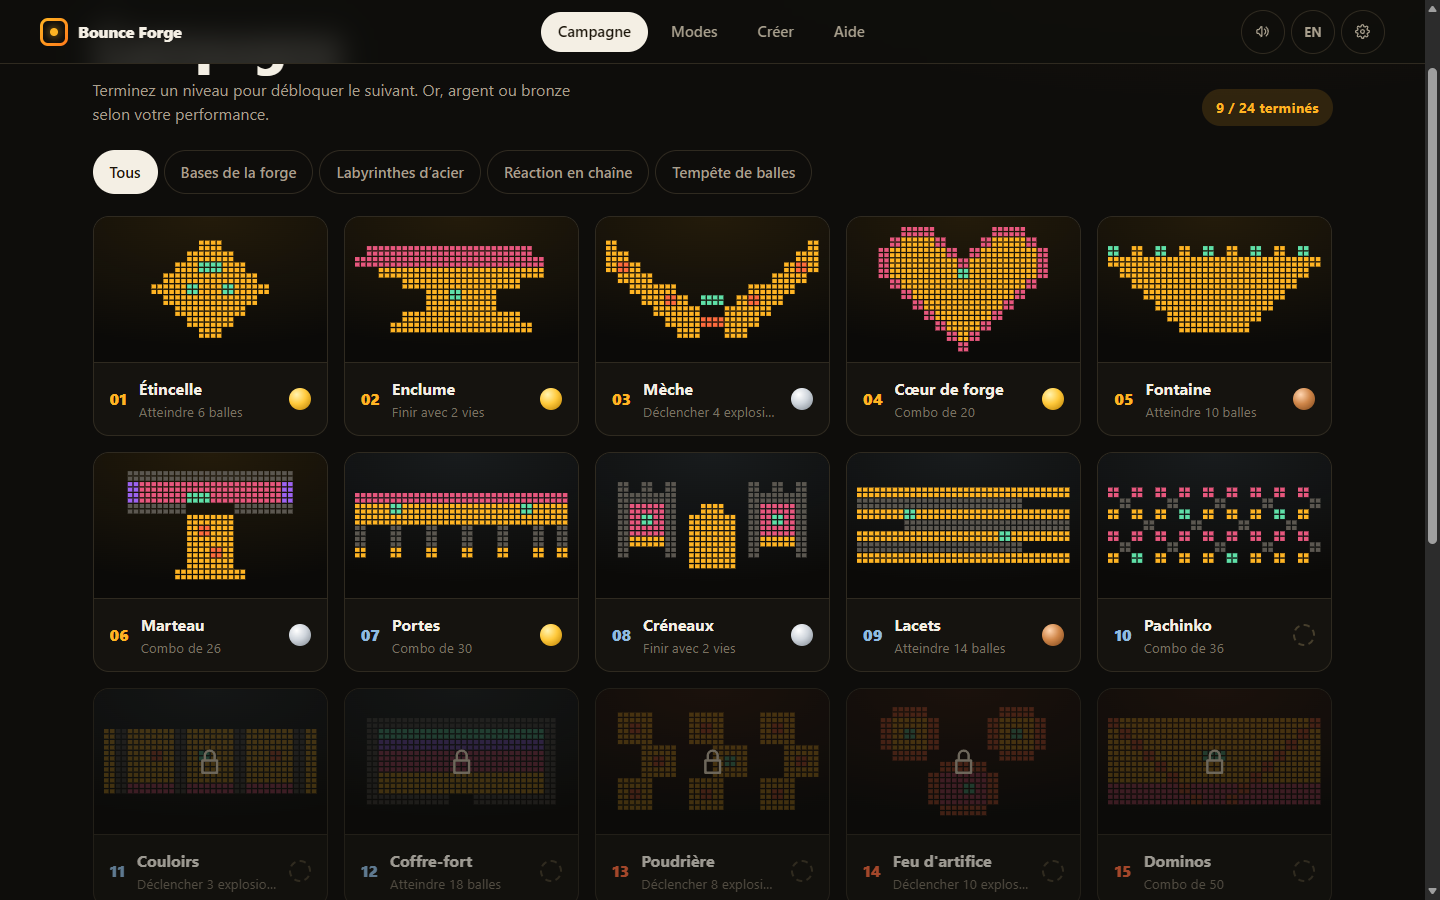
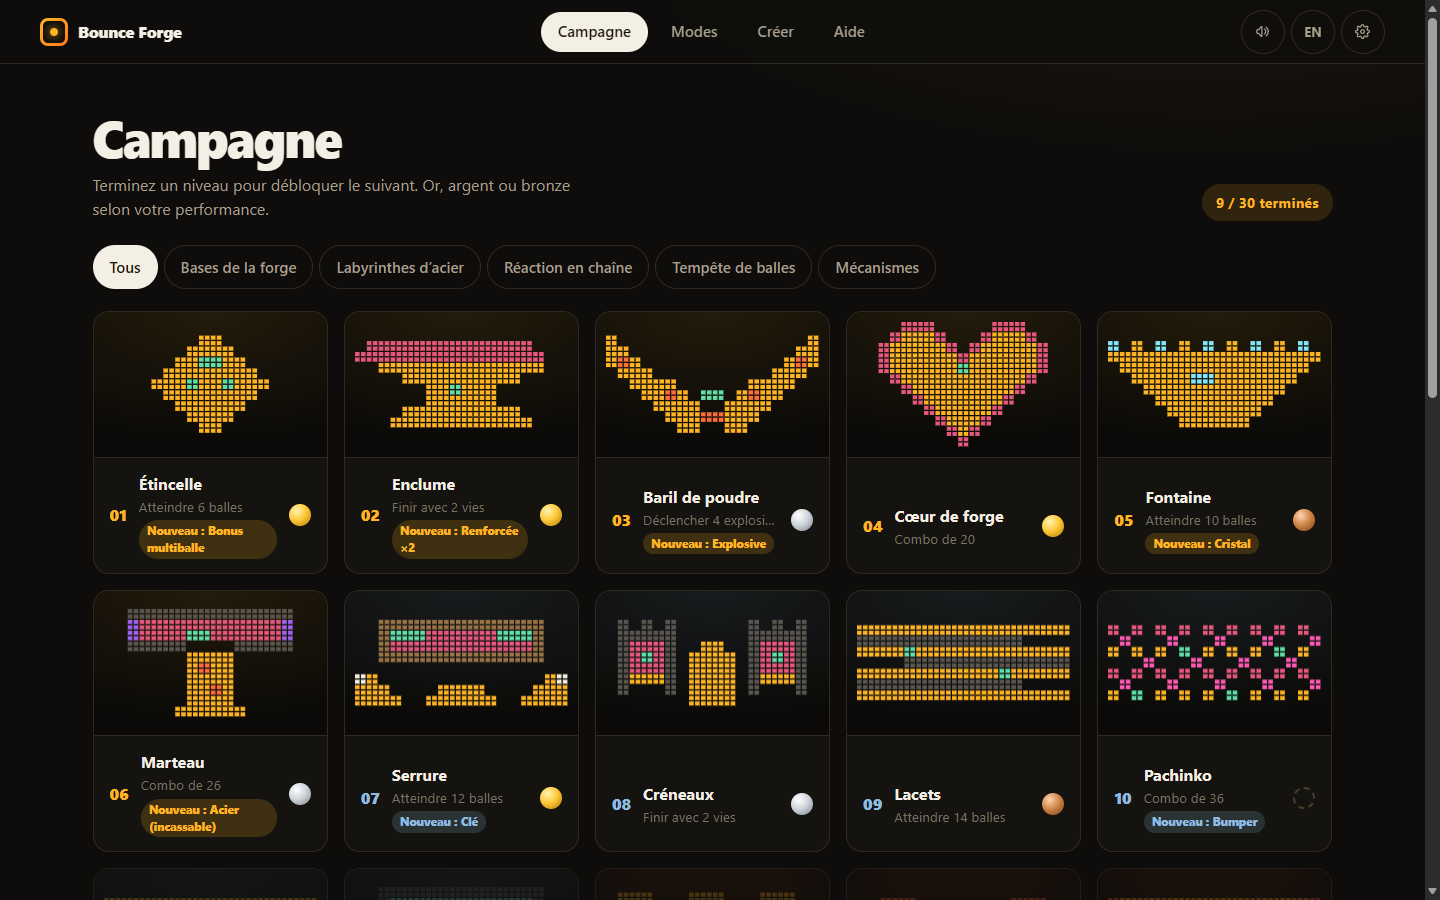
docs: v1.2.0 changelog, README and design docs; refreshed media; campaign cards keep their medal visible

diff --git a/src/ui/effects.css b/src/ui/effects.css
@@ -99,3 +99,14 @@
   align-items: center;
   gap: 6px;
 }
+
+/* Long titles, badges or a preview canvas must never widen a card and push the medal out. */
+.level-card,
+.card-text {
+  grid-template-columns: minmax(0, 1fr);
+}
+
+.card-visual canvas {
+  display: block;
+  max-width: 100%;
+}

diff --git a/README.md b/README.md
@@ -34,13 +34,21 @@ une idée — viser juste, déclencher des réactions en chaîne ou noyer le ter
 
 | Campagne                                                                           | Modes                                                                                        |
 | ---------------------------------------------------------------------------------- | -------------------------------------------------------------------------------------------- |
-| ![Grille des 24 niveaux avec miniatures et médailles](docs/media/campaign.png)     | ![Cartes des modes Campagne, Infini, Défi du jour et Création](docs/media/modes.png)         |
+| ![Grille des 30 niveaux avec miniatures et médailles](docs/media/campaign.png)     | ![Cartes des modes Campagne, Infini, Défi du jour et Création](docs/media/modes.png)         |
 | ![L’Atelier : Surprise, depuis la campagne, page blanche](docs/media/workshop.png) | ![Éditeur avec les vraies briques, outils à gauche, palette à droite](docs/media/editor.png) |
 
 ## Fonctionnalités
 
-- **Campagne de 24 niveaux** en 4 chapitres — Bases de la forge, Labyrinthes d’acier, Réaction en
-  chaîne, Tempête de balles — avec une médaille d’or, d’argent ou de bronze à décrocher.
+- **Campagne de 30 niveaux** en 5 chapitres — Bases de la forge, Labyrinthes d’acier, Réaction en
+  chaîne, Tempête de balles, Mécanismes — dessinés en pixel art. Chaque niveau présente une idée
+  seule avant de la mélanger aux autres, avec une médaille d’or, d’argent ou de bronze à décrocher.
+- **15 bonus** débloqués au fil des chapitres : multiballe, boule de feu, balle explosive, grosse
+  balle, canons laser, aimant, bouclier, ralenti, fièvre… et des capsules rouges « risque »
+  (turbo, rétrécir) qui rapportent plus de points. Certains se **combinent** (Météore, Soleil,
+  lasers explosifs).
+- **Mécanismes** : cristaux qui divisent la balle, clés et portes, briques phénix qui renaissent,
+  fantômes invisibles, briques mobiles, bumpers, téléporteurs, mèches ; événements de niveau
+  (pluie de bonus, orage, mur qui descend).
 - **Mode Infini** : des vagues sans fin, trois vies, score et vies conservés d’une vague à l’autre.
   La difficulté plafonne au dernier palier de la campagne.
 - **Défi du jour** : trois vagues identiques pour tous les joueurs, tirées de la date UTC.
@@ -50,13 +58,13 @@ une idée — viser juste, déclencher des réactions en chaîne ou noyer le ter
   du jeu : pinceau 1×1 à 3×3, rectangle, ligne, remplissage, pipette, tampons, texte en briques,
   symétrie miroir ou 4 quarts, annuler/rétablir, zoom et pincement. Il estime la difficulté,
   signale les briques enfermées dans l’acier, garde un brouillon automatique et **teste sans
-  écraser** votre niveau enregistré. Partage par code `BF2:` (accents et emoji compris).
+  écraser** votre niveau enregistré. Tous les mécanismes et des **réglages par niveau** (bonus
+  autorisés, fréquence, vies, vitesse, événements). Partage par code `BF3:`.
 - **Sensations soignées** : sons synthétisés (note qui monte avec le combo, explosions, bonus),
   physique sans traversée ni double impact, rebond courbe sur la raquette, secousses, éclats,
   ralenti sur la dernière brique.
-- **Six types de briques** reconnaissables par leur couleur _et_ leur symbole : standard,
-  renforcée (rose ×2, violette ×3, fissures à chaque coup), explosive, bonus, bouclier, acier
-  indestructible.
+- **Quinze briques et obstacles** reconnaissables par leur couleur _et_ leur symbole : standard,
+  renforcée (rose ×2, violette ×3), explosive, bonus, bouclier, acier, et les neuf mécanismes.
 - **Pensé pour tous les écrans** : HUD latéral sur ordinateur, HUD compact et commandes tactiles
   sur mobile, cibles d’au moins 44 px.
 - **Accessible** : navigation au clavier, focus visible, option « Réduire les animations »,

diff --git a/docs/GAME_DESIGN.md b/docs/GAME_DESIGN.md
@@ -34,21 +34,29 @@ Power-ups are round pickups that fall from broken bricks. The drop chance scales
 
 ## Progression
 
-The campaign contains 24 fixed levels across four chapters:
+The campaign contains 30 pixel-art levels across five chapters. Each chapter has a theme and
+introduces one idea per level, in a forgiving layout, before later levels combine it with the
+others; the sixth level of each chapter is a finale.
 
-- Forge Basics
-- Wall Mazes
-- Chain Reactor
-- Ball Storm
+| Chapter       | Theme                          | Introduces                                    |
+| ------------- | ------------------------------ | --------------------------------------------- |
+| Forge Basics  | bounces and the classic bricks | bonus, reinforced, explosive, crystal, steel  |
+| Wall Mazes    | walls and angles               | keys and gates, bumpers, teleporters          |
+| Chain Reactor | chain reactions                | fuses, phoenix bricks                         |
+| Ball Storm    | many balls at once             | moving and ghost bricks, power-up rain, storm |
+| Mechanisms    | mastery                        | everything combined, descending wall          |
+
+Power-ups unlock with the chapters (weights per chapter in `src/game/config/powerUps.ts`).
 
 Difficulty is derived from the campaign level index:
 
-- Ball speed increases gradually.
-- Maximum ball speed increases gradually.
-- Resistant bricks gain health after later levels.
-- Power-up drop chance rises from 35% toward 48%.
+- Ball speed increases gently over the 30 levels.
+- Reinforced bricks always take exactly 2 or 3 hits; only shields get tougher later.
+- About a fifth of the bricks drop a capsule (16% rising to 22%).
 - Score multiplier increases per level.
-- Starting lives drop gradually but never below 2.
+- Every level starts with three lives.
+
+`tests/balance.test.ts` prints the expected drops per level and guards the ranges.
 
 Each campaign level has an objective shown in the HUD. Objectives currently track reaching a target number of balls, triggering explosions, clearing with lives remaining, or reaching a best-combo target.
 

diff --git a/CHANGELOG.md b/CHANGELOG.md
@@ -3,6 +3,34 @@
 All notable changes to Bounce Forge. Format based on
 [Keep a Changelog](https://keepachangelog.com/), versions follow [SemVer](https://semver.org/).
 
+## [1.2.0] — 2026-11-11
+
+### Added
+
+- **15 power-ups** in one registry, unlocked chapter by chapter: fire ball (burns through
+  bricks), explosive ball (charges), big ball, paddle lasers, magnet, shield (saves a ball),
+  slow motion, fever (×2 points) and red **risk capsules** (turbo, shrink) that trade a drawback
+  for more points. Stacking with caps, opposites cancel, and **combos**: Meteor (fire +
+  explosive), Sun (fire + big ball), explosive lasers.
+- **Nine mechanisms**: crystal (splits the ball), key + gate, phoenix (respawns, never blocks a
+  win), ghost (hidden until touched), mover (slides in its row), bumper, teleporter pairs, fuse
+  (burns along its line, then explodes).
+- **Level events**: power-up rain, storm (lightning), descending wall.
+- HUD chips for active effects (icon, colour, time gauge, charges), first-time hints for every
+  power-up and mechanism, help screen with the real brick artwork, combos and mechanisms.
+- **Workshop**: mechanism palette and per-level settings (allowed power-ups, frequency, lives,
+  ball speed, events), saved with the level, applied by Test, shared with `BF3:` codes.
+- Balance report test and a smoke run that plays all 30 campaign levels.
+
+### Changed
+
+- **30-level campaign in 5 chapters**, redesigned around the new mechanics: each level
+  introduces one idea before later levels combine them; chapter 5 "Mechanisms" is the mastery
+  chapter. "New: …" badges and chapter introductions on the campaign screen.
+- Gentler pacing: slower speed ramp, three lives everywhere, reinforced bricks keep exactly 2 or
+  3 hits; fewer capsules (16–22 % of bricks) so the screen never floods.
+- Save format v7 (discoveries, level settings on creative slots); older saves migrate.
+
 ## [1.1.0] — 2026-11-11
 
 ### Added

diff --git a/docs/GAME_REFERENCE.md b/docs/GAME_REFERENCE.md
@@ -77,8 +77,8 @@ Medals are saved per campaign level:
 
 The campaign is generated from [src/game/levels/levelPatterns.ts](../src/game/levels/levelPatterns.ts) and compiled through [src/game/levels/campaignLevels.ts](../src/game/levels/campaignLevels.ts).
 
-- 24 fixed campaign levels.
-- 4 chapters: Forge Basics, Wall Mazes, Chain Reactor, Ball Storm.
+- 30 fixed campaign levels drawn as pixel art (one character = 2×2 cells).
+- 5 chapters: Forge Basics, Wall Mazes, Chain Reactor, Ball Storm, Mechanisms.
 - Each level defines a name, objective, medal targets, and a 36x58 grid.
 - Objectives track reaching a ball count, triggering explosions, clearing with enough lives, or hitting a best-combo target.
 - Admin campaign overrides can replace a level's rows and display name, but keep the original level id, chapter, objective, and medal targets.
@@ -120,7 +120,7 @@ Creative mode is local-only:
 
 - Accessible from `MODE CREATIF`.
 - Saves 36x58 editor rows to browser localStorage under `creativeLevelSlots`.
-- Has 24 slots aligned with campaign slot numbers.
+- Has 30 slots aligned with campaign slot numbers.
 - `PLAY` runs the selected creative slot with source `creative`.
 - Creative saves never replace campaign levels.
 
